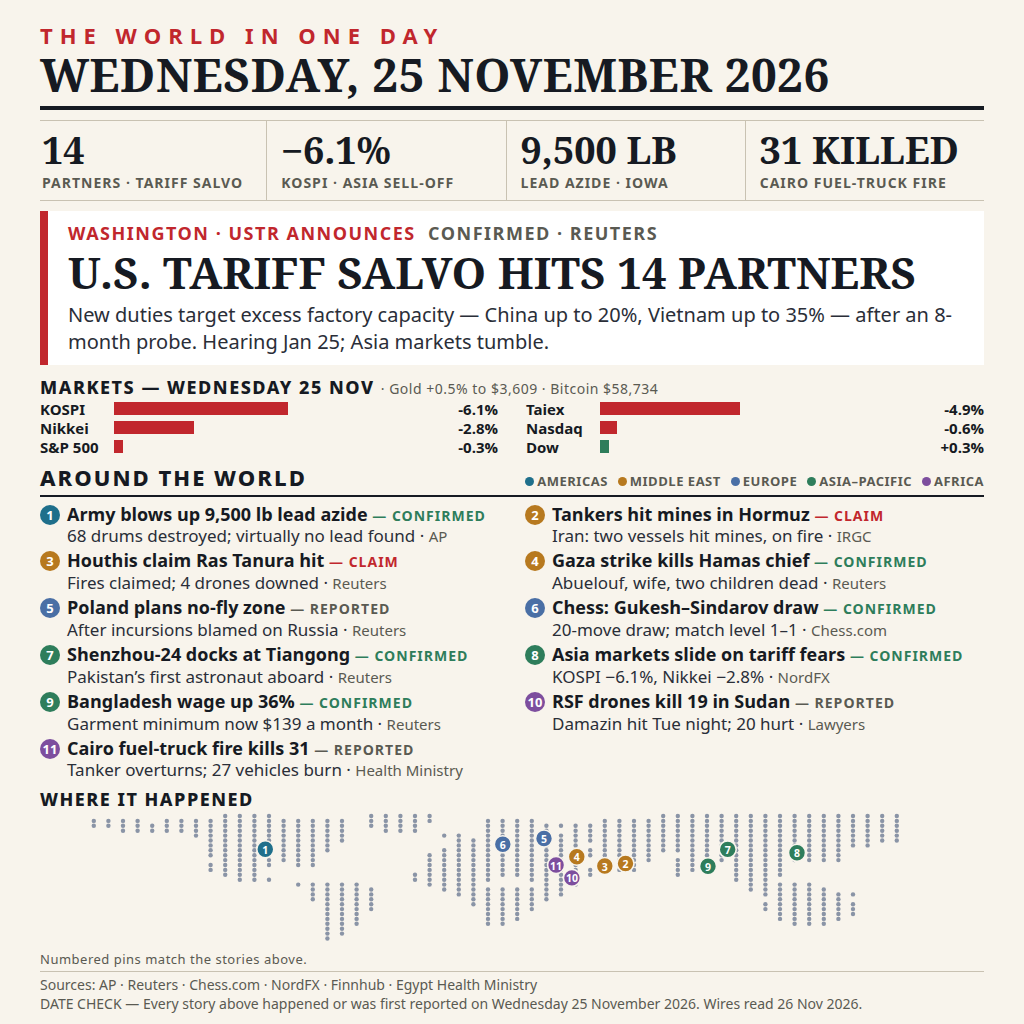
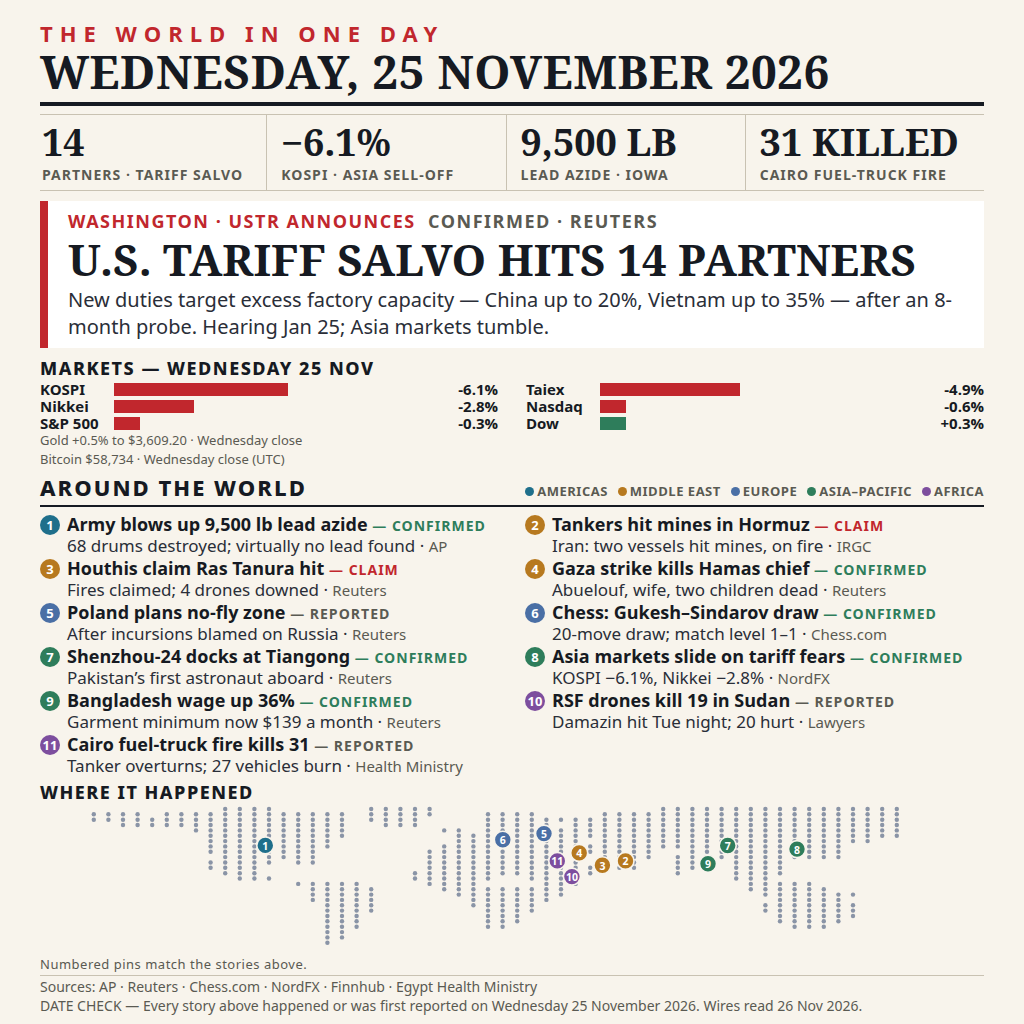
news-image-20261125 revision 3: Claude.ai optional fixes — taller map, re-spaced pins, Gold/Bitcoin lines, min bar width

diff --git a/main.py b/main.py
@@ -2,9 +2,12 @@
 """THE WORLD IN ONE DAY - Wednesday 25 November 2026.
 
 Rebuild (resubmit) of the make.fun news-image-20261125 entry.
-Revision 2: fact-checked, hero changed to the day's global story
-(the U.S. tariff salvo on 14 trading partners), every number
-re-verified against the original wires.
+Revision 3: Claude.ai optional fixes on top of revision 2 — taller
+dotted map with re-spaced pins (Gaza/Cairo/Sudan no longer overlap),
+Gold and Bitcoin moved to two small lines under the market bars,
+minimum bar width so the Dow +0.3% bar is visible, hero tariff rates
+re-verified against the USTR announcement (China up to 20%, Vietnam
+up to 35% — confirmed correct, unchanged).
 A clean, readability-first newspaper front page: one dominant hero
 four big key numbers, eleven compact numbered secondary stories grouped
 by region, a market bar chart under the hero as supporting evidence,
